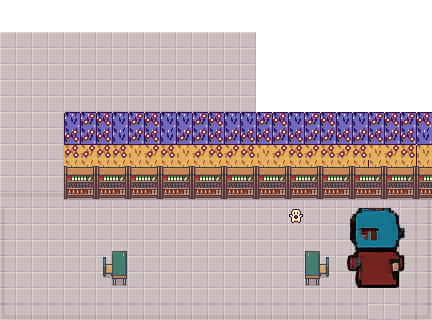
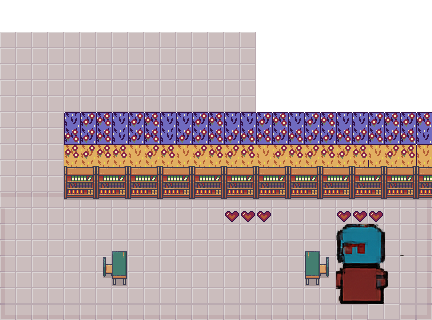
Mapboundaries done

Changed region(s): [[0.7523, 0.625, 0.963, 0.9688], [0.5116, 0.6562, 0.6319, 0.6875], [0.662, 0.6562, 0.7222, 0.7188]]

diff --git a/src/main.js b/src/main.js
@@ -34,9 +34,6 @@ k.scene("main", async () => {
 
 //   const map = k.add([k.sprite("map"), k.pos(0), k.scale(scaleFactor)]);
 
-
-
-
   ///////////////////////
 
   const mapData = await (await fetch("./map2.json")).json();
@@ -615,7 +612,40 @@ k.scene("bossFight", async () => {
             displayDialogue(
               "BOSS: Ahh you have made it, I hope you come prepared!", // Boss dialogue
               () => {
-                console.log("Boss dialogue complete. Starting player's response."); // Debug statement
+                console.log("Boss dialogue complete. Creating score display."); // Debug statement
+
+                // Create boss score display
+                const bossScore = k.add([
+                  k.text("Boss Score: 100", { size: 24 }), // Initial score is 100
+                  k.pos(k.width() - 150, 10), // Position at the top-right corner
+                  { value: 100 }, // Boss score value
+                ]);
+
+                console.log("Boss score display created:", bossScore); // Debug statement
+
+                // Debug: Log the position and visibility of the score
+                console.log("Boss score position:", bossScore.pos);
+                console.log("Boss score visibility:", !bossScore.hidden);
+
+                // Ensure the score is drawn
+                k.onDraw(() => {
+                  console.log("Drawing boss score...");
+                });
+
+                // Function to update boss score
+                function updateBossScore(amount) {
+                  console.log("Updating boss score. Current value:", bossScore.value); // Debug statement
+                  bossScore.value = Math.max(0, bossScore.value - amount); // Deduct score but don't go below 0
+                  bossScore.text = `Boss Score: ${bossScore.value}`; // Update the displayed score
+                  console.log("Boss score updated. New value:", bossScore.value); // Debug statement
+
+                  if (bossScore.value <= 0) {
+                    console.log("Boss defeated!"); // Debug statement
+                    displayDialogue("You defeated the boss!", () => {
+                      k.go("winScene"); // Transition to a win scene
+                    });
+                  }
+                }
 
                 // Player's response after the boss's dialogue
                 displayDialogue(
@@ -624,7 +654,7 @@ k.scene("bossFight", async () => {
                     console.log("Player's response complete. Starting the quiz."); // Debug statement
 
                     // Start the quiz after the player's response
-                    startQuiz(player, boss, () => {
+                    startQuiz(player, updateBossScore, () => {
                       console.log("Quiz complete."); // Debug statement
                       player.isInDialogue = false;
                     });
@@ -722,7 +752,7 @@ k.scene("bossFight", async () => {
 });
 
 // Quiz logic
-function startQuiz(player, boss, onComplete) {
+function startQuiz(player, updateBossScore, onComplete) {
   const questions = [
     {
       question: "What is 2 + 2?",
@@ -748,13 +778,8 @@ function startQuiz(player, boss, onComplete) {
     (playerAnswer) => {
       if (playerAnswer === randomQuestion.answer) {
         console.log("Correct answer! Dealing damage to the boss.");
-        boss.health -= 20;
-        if (boss.health <= 0) {
-          console.log("Boss defeated!");
-          displayDialogue("You defeated the boss!", onComplete);
-        } else {
-          displayDialogue(`Correct! Boss health: ${boss.health}`, onComplete);
-        }
+        updateBossScore(20);
+        onComplete();
       } else {
         console.log("Wrong answer! Boss deals damage to the player.");
         player.health -= 20;
